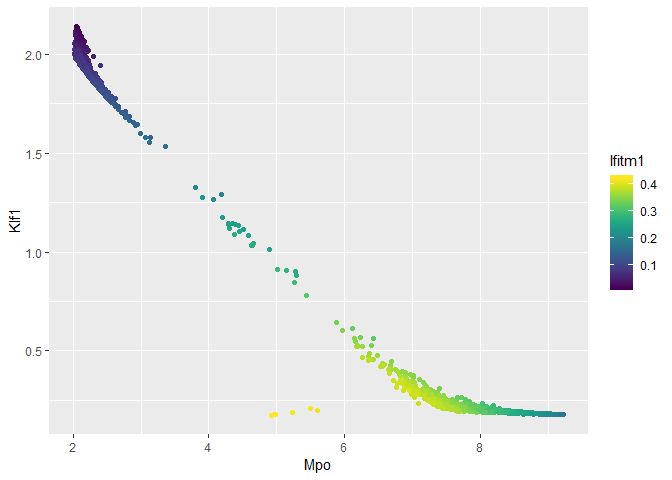
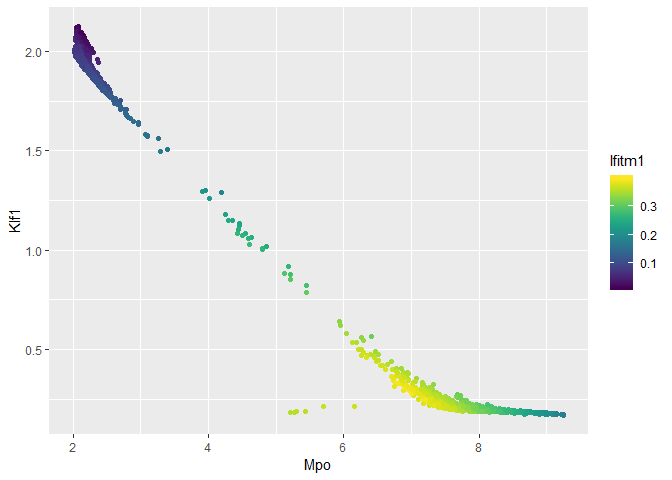
add R examples

diff --git a/R/inst/examples/bonemarrow_tutorial.md b/R/inst/examples/bonemarrow_tutorial.md
@@ -10,12 +10,15 @@ Rmagic Bone Marrow Tutorial
   - It also proves dimensionality reduction and gene expression
     visualizations
   - MAGIC can be performed on a variety of datasets
-  - Here, we show the effectiveness of MAGIC on
-    epithelial-to-mesenchymal transition (EMT) data
+  - Here, we show the effectiveness of MAGIC on erythroid and myeloid
+    cells developing in mouse bone marrow.
 
-To use MAGIC, cite: MAGIC: A diffusion-based imputation method reveals
-gene-gene interactions in single-cell RNA-sequencing data Biorxiv
-(preprint) February 2017. DOI: doi.org/10.1101/111591
+Markov Affinity-based Graph Imputation of Cells (MAGIC) is an algorithm
+for denoising and transcript recover of single cells applied to
+single-cell RNA sequencing data, as described in Van Dijk D *et al.*
+(2018), *Recovering Gene Interactions from Single-Cell Data Using Data
+Diffusion*, Cell
+<https://www.cell.com/cell/abstract/S0092-8674(18)30724-4>.
 
 ### Installation
 
@@ -28,7 +31,7 @@ if (!require(devtools)) install.packages(devtools)
 if (!require(Rmagic)) devtools::install_github("KrishnaswamyLab/magic/R")
 ```
 
-In a terminal, run the following command to install the Pythonn
+In a terminal, run the following command to install the Python
 repository.
 
 ``` bash
@@ -131,7 +134,9 @@ library size.
 keep_cols <- colSums(bmmsc > 0) > 10
 bmmsc <- bmmsc[,keep_cols]
 # look at the distribution of library sizes
-hist(rowSums(bmmsc))
+ggplot() +
+  geom_histogram(aes(x=rowSums(bmmsc)), bins=50) +
+  geom_vline(xintercept = 2000, color='red')
 ```
 
 ![](bonemarrow_tutorial_files/figure-gfm/unnamed-chunk-1-1.png)<!-- -->
@@ -197,7 +202,7 @@ the argument `init` to avoid recomputing intermediate
 steps.
 
 ``` r
-bmmsc_MAGIC <- magic(bmmsc, genes=c("Mpo", "Klf1", "Ifitm1"), t=8, init=bmmsc_MAGIC)
+bmmsc_MAGIC <- magic(bmmsc, genes=c("Mpo", "Klf1", "Ifitm1"), t=4, init=bmmsc_MAGIC)
 ggplot(bmmsc_MAGIC) +
   geom_point(aes(Mpo, Klf1, colour=Ifitm1)) + 
   scale_colour_viridis()
@@ -215,40 +220,53 @@ intermediate steps. Note that this matrix may be large and could take up
 a lot of memory.
 
 ``` r
-bmmsc_MAGIC <- magic(bmmsc, genes="all_genes", init=bmmsc_MAGIC)
+bmmsc_MAGIC <- magic(bmmsc, genes="all_genes", t=4, init=bmmsc_MAGIC)
 as.data.frame(bmmsc_MAGIC)[1:5, 1:10]
 ```
 
     ##   0610007C21Rik;Apr3 0610007L01Rik 0610007P08Rik;Rad26l 0610007P14Rik
-    ## 1          0.1751866     0.5540753           0.06156801     0.4074682
-    ## 2          0.1546742     0.4319843           0.11617584     0.4282041
-    ## 3          0.1687694     0.5702529           0.06386686     0.4172185
-    ## 4          0.1494420     0.4273008           0.11111974     0.4211829
-    ## 5          0.1708924     0.5635437           0.06133188     0.4162455
+    ## 1          0.1792195     0.5550954           0.06092393     0.3891946
+    ## 2          0.1273133     0.4096786           0.13282092     0.4268516
+    ## 3          0.1518990     0.6057446           0.07514413     0.4341140
+    ## 4          0.1186488     0.4098970           0.12670578     0.4156248
+    ## 5          0.1650279     0.5837784           0.06048088     0.4183659
     ##   0610007P22Rik 0610009B22Rik 0610009D07Rik 0610009O20Rik
-    ## 1    0.03024783    0.05645037    0.07368982     0.1979285
-    ## 2    0.03774436    0.08081385    0.12355306     0.3909738
-    ## 3    0.02894124    0.05833093    0.07277939     0.2002494
-    ## 4    0.03579443    0.07634111    0.11043661     0.3862620
-    ## 5    0.02948439    0.05587387    0.07075943     0.2007730
+    ## 1    0.02933742    0.05873117    0.07909602     0.1881641
+    ## 2    0.04131681    0.08353999    0.12061873     0.3906472
+    ## 3    0.02539456    0.06417888    0.05789454     0.1947493
+    ## 4    0.03749442    0.07662827    0.10214198     0.3869261
+    ## 5    0.02955924    0.05542874    0.05948475     0.1912546
     ##   0610010F05Rik;mKIAA1841;Kiaa1841 0610010K14Rik;Rnasek
-    ## 1                       0.03743578             1.160120
-    ## 2                       0.03603500             1.090403
-    ## 3                       0.03885539             1.150197
-    ## 4                       0.03315765             1.096635
-    ## 5                       0.03766863             1.155895
+    ## 1                       0.03648628             1.174787
+    ## 2                       0.03764984             1.084359
+    ## 3                       0.04473963             1.136657
+    ## 4                       0.03436419             1.098742
+    ## 5                       0.03893060             1.150368
+
+### Visualizing MAGIC values on PCA
+
+We can visualize the results of MAGIC on PCA as follows.
+
+``` r
+bmmsc_MAGIC_PCA <- as.data.frame(prcomp(bmmsc_MAGIC)$x)
+ggplot(bmmsc_MAGIC_PCA) +
+  geom_point(aes(x=PC1, y=PC2, color=bmmsc_MAGIC$result$Klf1)) +
+  scale_color_viridis(option="B") +
+  labs(color="Klf1")
+```
+
+![](bonemarrow_tutorial_files/figure-gfm/run_pca-1.png)<!-- -->
 
 ### Visualizing MAGIC values on PHATE
 
 We can visualize the results of MAGIC on PHATE as follows.
-mKIAA1317;Kctd16
 
 ``` r
 bmmsc_PHATE <- phate(bmmsc)
 ggplot(bmmsc_PHATE) +
   geom_point(aes(x=PHATE1, y=PHATE2, color=bmmsc_MAGIC$result$Klf1)) +
-  scale_color_viridis() +
-  labs(color="Mpo")
+  scale_color_viridis(option="B") +
+  labs(color="Klf1")
 ```
 
 ![](bonemarrow_tutorial_files/figure-gfm/run_phate-1.png)<!-- -->
